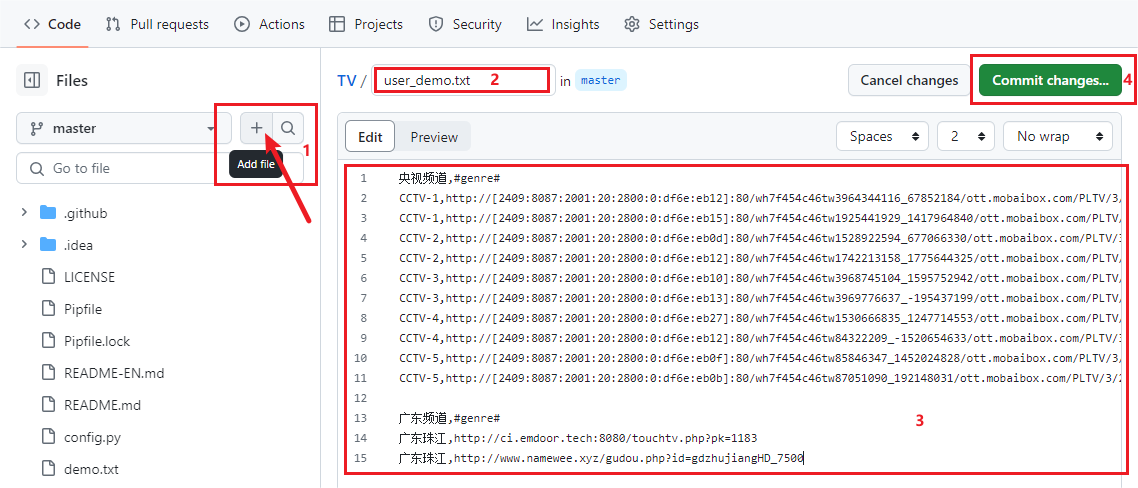
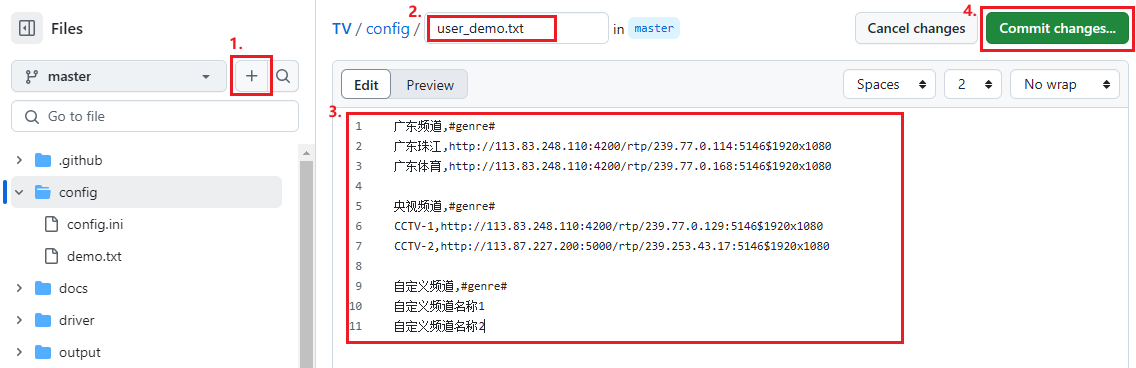
update:tutorial

diff --git a/docs/tutorial_en.md b/docs/tutorial_en.md
@@ -21,24 +21,24 @@ Copy the source code of this repository to your personal account repository
 
 When you click to confirm and create in step one, you will be automatically redirected to your personal repository. At this point, your personal repository is created, and you can customize your personal live source channel menu!
 
-### 1. Click on the demo.txt template file:
+### 1. Click the demo.txt template file inside the config folder:
 
 ![demo.txt Entrance](./images/demo-btn.png 'demo.txt Entrance')
 
-### 2. Create a personal template user_demo.txt:
-
-![Create user_demo.txt](./images/edit-user-demo.png 'Create user_demo.txt')
+### 2. Create a personal template user_demo.txt inside the config folder:
 
 1. Create file
 2. Name the template file user_demo.txt
-3. The template file needs to be written in the format of (channel category, #genre#), (channel name, channel interface), note that it is an English comma. The maximum number of channels is 200, any excess will not be updated.
-4. Click Commit changes... to save.
+3. The template file needs to be written in the format of (channel category, #genre#), (channel name, channel interface), note that it is an English comma.
+4. Click Commit changes... to save
+
+![Create user_demo.txt](./images/edit-user-demo.png 'Create user_demo.txt')
 
 ## Step 3: Modify the Configuration
 
 Similar to editing the template, modify the running configuration
 
-### 1. Click on the config.ini configuration file:
+### 1. Click on the config.ini configuration file inside the config folder:
 
 ![config.ini Entrance](./images/config-btn.png 'config.ini Entrance')
 
@@ -46,14 +46,14 @@ Similar to editing the template, modify the running configuration
 
 ![Copy config.ini](./images/copy-config.png 'Copy default template')
 
-### 3. Create a personal configuration file user_config.ini:
-
-![Create user_config.ini](./images/edit-user-config.png 'Create user_config.ini')
+### 3. Create a personal configuration file user_config.ini inside the config folder:
 
 1. Create file
 2. Name the configuration file user_config.ini
-3. Paste the default template, modify source_file = "config/user_demo.txt"; final_file = "output/user_result.txt"
-4. Click Commit changes... to save.
+3. Paste the default template
+4. Click Commit changes... to save
+
+![Create user_config.ini](./images/edit-user-config.png 'Create user_config.ini')
 
 Adjust the configuration as needed. Below is the default configuration explanation:
 [Config parameter](./docs/config_en.md)
@@ -122,8 +122,8 @@ Please see step six
 ### 3. Update the File to the Repository(optional)
 
 If you do not have your own domain address, after the interface update is completed, upload user_result.txt to your personal repository to use it.
+https://mirror.ghproxy.com/raw.githubusercontent.com/your github username/repository name (corresponding to the TV created when forking)/master/output/user_result.txt
 ![Username and Repository Name](./images/rep-info.png 'Username and Repository Name')
-https://mirror.ghproxy.com/raw.githubusercontent.com/your github username/repository name (corresponding to the TV created when forking)/master/user_result.txt
 
 ## Step 5: Update the Source Code
 
@@ -141,8 +141,15 @@ Follow this project to be notified by email about the latest updates and release
 
 ### 3. Sync fork
 
+#### Normal update:
+
 Return to the homepage of your repository. If there are updates to the project, click on "Sync fork" and then "Update branch" to confirm and update to the latest code.
 ![Sync-fork](./images/sync-fork.png 'Sync fork')
+
+#### No Update branch button, update conflict:
+
+This is because some files conflict with the default files in the main repository. Click "Discard commits" to update to the latest code.
+![Conflict Resolution](./images/conflict.png 'Conflict Resolution')
 
 ## Please use the following content with caution. If you have a large number of channels that need to be updated, please use local updates instead of automatic updates. Improper configuration may lead to your account or workflow being banned!
 
@@ -166,45 +173,53 @@ After successful activation, you can see that there are no workflows running at 
 
 #### (1) Enable update schedule:
 
-![Enable Workflows update](./images/workflows-btn.png 'Enable Workflows update')
-
 1. Click on update schedule under the Workflows category.
 2. Since the workflow of the forked repository is disabled by default, click the Enable workflow button to confirm the activation.
 
-#### (2) Run the Workflow based on branches:
+![Enable Workflows update](./images/workflows-btn.png 'Enable Workflows update')
 
-![Run Workflow](./images/workflows-run.png 'Run Workflow')
-Now you can run the update workflow.
+#### (2) Run the Workflow based on branches:
 
 1. Click Run workflow.
 2. Here you can switch to the branch you want to run. Since the fork defaults to the master branch, if the template and configuration you modified are also in the master branch, just choose master here, and click Run workflow to confirm the run.
 
+![Run Workflow](./images/workflows-run.png 'Run Workflow')
+Now you can run the update workflow.
+
 #### (3) Workflow in progress:
 
-![Workflow in progress](./images/workflow-running.png 'Workflow in progress')
 Wait a moment, and you will see that your first update workflow is running!
 (Note: The running time depends on the number of channels and pages in your template and other configurations, and also largely depends on the current network conditions. Please be patient. The default template and configuration usually take about 25 minutes.)
+![Workflow in progress](./images/workflow-running.png 'Workflow in progress')
 
 #### (4) Cancel the running Workflow:
 
-![Cancel running Workflow](./images/workflow-cancel.png 'Cancel running Workflow')
 If you feel that this update is not quite right and you need to modify the template or configuration before running again, you can click Cancel run to cancel this run.
+![Cancel running Workflow](./images/workflow-cancel.png 'Cancel running Workflow')
 
 #### (5) Workflow executed successfully:
 
+If everything is normal, after a short wait, you will see that the workflow has been executed successfully (green check mark).
 ![Workflow executed successfully](./images/workflow-success.png 'Workflow executed successfully')
-If everything is normal, after a short wait, you will see that the workflow has been executed successfully (green check mark). At this point, you can visit the proxy file link to see if the latest results have been synchronized:
-![Username and Repository Name](./images/rep-info.png 'Username and Repository Name')
+
+At this point, you can visit the proxy file link to see if the latest results have been synchronized:
 https://mirror.ghproxy.com/raw.githubusercontent.com/your github username/repository name (corresponding to the TV created when forking)/master/user_result.txt
+![Username and Repository Name](./images/rep-info.png 'Username and Repository Name')
 
 If you can access this link and it returns the updated interface content, then your live source interface link has been successfully created! Simply copy and paste this link into software like TVBox in the configuration field to use~
 
-- Note: Except for the first execution of the workflow, which requires you to manually trigger it, subsequent executions (default: daily at 6:00 am Beijing time) will be automatically triggered. If you have modified the template or configuration files and want to execute the update immediately, you can manually trigger (2) Run workflow.
+- Note: Except for the first execution of the workflow, which requires you to manually trigger it, subsequent executions (default: daily at 6:00 am and 18:00 pm Beijing time) will be automatically triggered. If you have modified the template or configuration files and want to execute the update immediately, you can manually trigger (2) Run workflow.
 
 ## Step 7: Modify Workflow Update Frequency
 
+If you want to modify the update frequency (default: daily at 6:00 am and 18:00 pm Beijing time), you can modify the on:schedule:- cron field.
 ![.github/workflows/main.yml](./images/schedule-cron.png '.github/workflows/main.yml')
-If you want to modify the update frequency (default: daily at 6:00 am Beijing time), you can modify the on:schedule:- cron field.
+If you want to perform updates every 2 days, you can modify it like this:
+
+```bash
+- cron: '0 22 */2 * *'
+- cron: '0 10 */2 * *'
+```
 
 ### 1. It is strongly discouraged to make modifications, as there is no difference in the content of the interface in a short period of time. Both too frequent updates and high-consumption running workflows may be judged as resource abuse, leading to the risk of the repository and account being banned.
 
